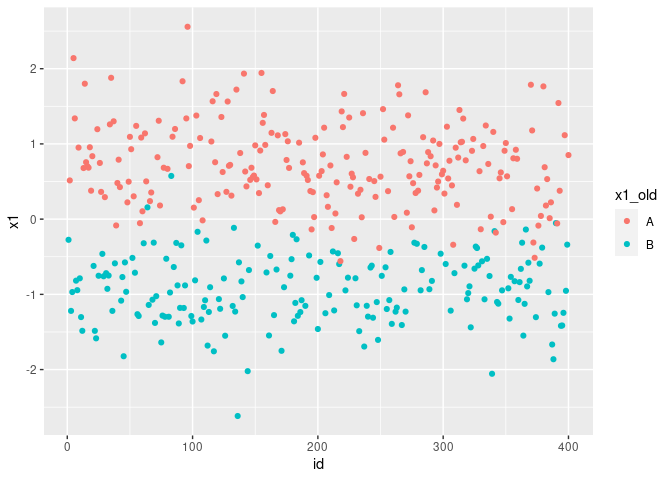
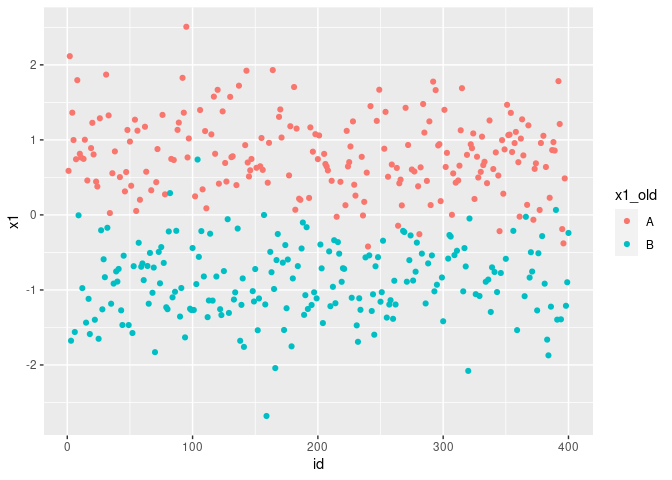
add last change badg

diff --git a/README.md b/README.md
@@ -7,6 +7,7 @@ status](https://travis-ci.com/ranibasna/NumericalTransformation.svg?branch=maste
 status](https://ci.appveyor.com/api/projects/status/github/ranibasna/NumericalTransformation?branch=master&svg=true)](https://ci.appveyor.com/project/ranibasna/NumericalTransformation)
 [![Codecov test
 coverage](https://codecov.io/gh/ranibasna/NumericalTransformation/branch/master/graph/badge.svg)](https://codecov.io/gh/ranibasna/NumericalTransformation?branch=master)
+[![Last-changedate](https://img.shields.io/badge/last%20change-2021--08--25-brightgreen.svg)](/commits/master)
 
 <!-- README.md is generated from README.Rmd. Please edit that file -->
 
@@ -75,13 +76,13 @@ x4 <- c(rnorm(n, mean = -muk), rnorm(n, mean = muk), rnorm(n, mean = -muk), rnor
 
 x <- data.frame(x1,x2,x3,x4)
 summary(x)
-#>  x1      x2            x3                  x4          
-#>  A:217   A:194   Min.   :-3.749330   Min.   :-4.24850  
-#>  B:183   B:206   1st Qu.:-1.417845   1st Qu.:-1.44877  
-#>                  Median :-0.002316   Median : 0.09057  
-#>                  Mean   : 0.024370   Mean   : 0.04117  
-#>                  3rd Qu.: 1.473889   3rd Qu.: 1.59126  
-#>                  Max.   : 3.962709   Max.   : 4.35724
+#>  x1      x2            x3                 x4          
+#>  A:204   A:204   Min.   :-3.73174   Min.   :-4.03363  
+#>  B:196   B:196   1st Qu.:-1.58986   1st Qu.:-1.51643  
+#>                  Median : 0.01126   Median : 0.05593  
+#>                  Mean   :-0.03406   Mean   : 0.09105  
+#>                  3rd Qu.: 1.44801   3rd Qu.: 1.63105  
+#>                  Max.   : 3.98378   Max.   : 4.31391
 ```
 
 ``` r
@@ -91,25 +92,25 @@ x_converted_data <- UFT_func(x, Seed = 22)
 # bined with the rest of the data
 x_converted_data_all <- bined_converted_func(converted_data = x_converted_data, original_data = x)
 head(x_converted_data_all)
-#>           x1         x2         x3        x4
-#> 1 -0.2749332  0.6391452 -0.6349824 -1.257009
-#> 2  0.5145778 -0.9244997 -1.7980693 -2.038357
-#> 3 -1.2199346 -0.6433292 -2.3130037 -1.182519
-#> 4 -0.9694521 -1.5752906 -1.5729009 -2.420783
-#> 5  2.1406254  1.8247216 -1.0177460 -2.779858
-#> 6  1.3391589 -0.6318220 -1.2007982 -1.438790
+#>           x1         x2         x3         x4
+#> 1  0.5875140  0.6497559 -2.2997601 -0.3248441
+#> 2  2.1161486  1.8238219 -1.8089499 -2.3681881
+#> 3 -1.6769365 -0.9598341  0.3299168 -0.2387695
+#> 4  1.3626962  1.2265628 -2.1908686 -0.9452686
+#> 5  0.9980403 -1.1876765 -0.2822368 -1.1285861
+#> 6 -1.5606829  0.9968173 -2.2658486 -0.9812207
 ```
 
 ``` r
 x_converted_data_all <- x_converted_data_all %>% dplyr::mutate(id = row_number())
 head(x_converted_data_all)
-#>           x1         x2         x3        x4 id
-#> 1 -0.2749332  0.6391452 -0.6349824 -1.257009  1
-#> 2  0.5145778 -0.9244997 -1.7980693 -2.038357  2
-#> 3 -1.2199346 -0.6433292 -2.3130037 -1.182519  3
-#> 4 -0.9694521 -1.5752906 -1.5729009 -2.420783  4
-#> 5  2.1406254  1.8247216 -1.0177460 -2.779858  5
-#> 6  1.3391589 -0.6318220 -1.2007982 -1.438790  6
+#>           x1         x2         x3         x4 id
+#> 1  0.5875140  0.6497559 -2.2997601 -0.3248441  1
+#> 2  2.1161486  1.8238219 -1.8089499 -2.3681881  2
+#> 3 -1.6769365 -0.9598341  0.3299168 -0.2387695  3
+#> 4  1.3626962  1.2265628 -2.1908686 -0.9452686  4
+#> 5  0.9980403 -1.1876765 -0.2822368 -1.1285861  5
+#> 6 -1.5606829  0.9968173 -2.2658486 -0.9812207  6
 ```
 
 ``` r
